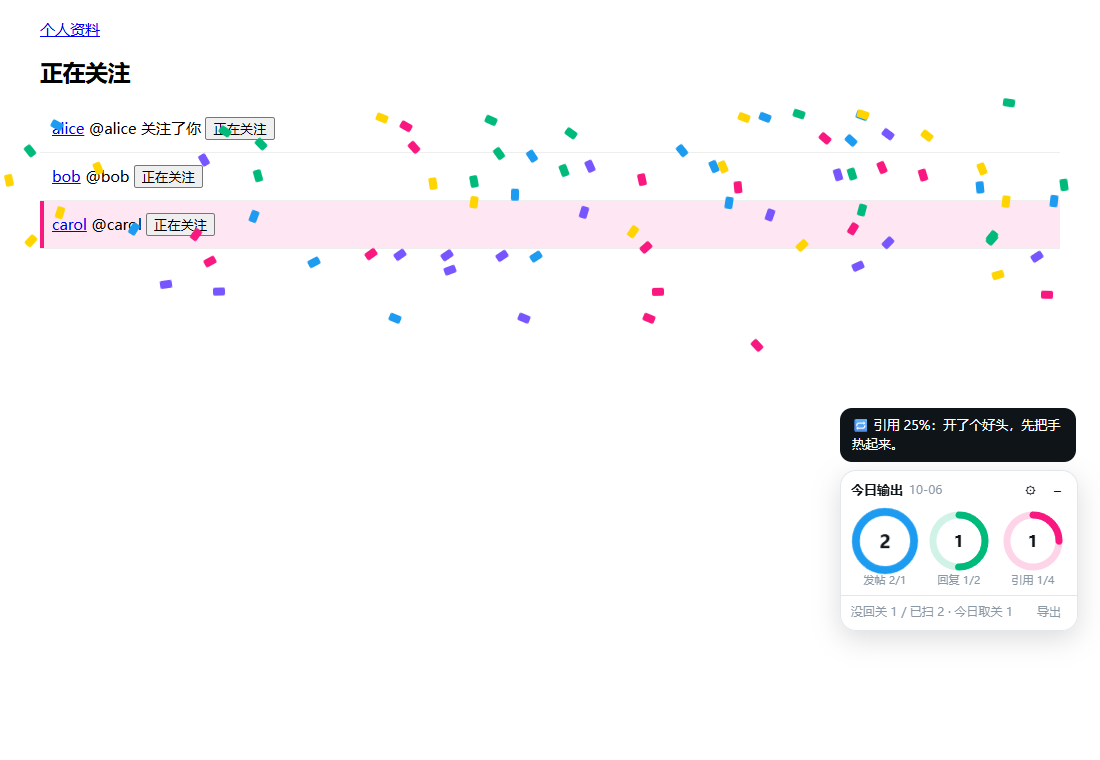
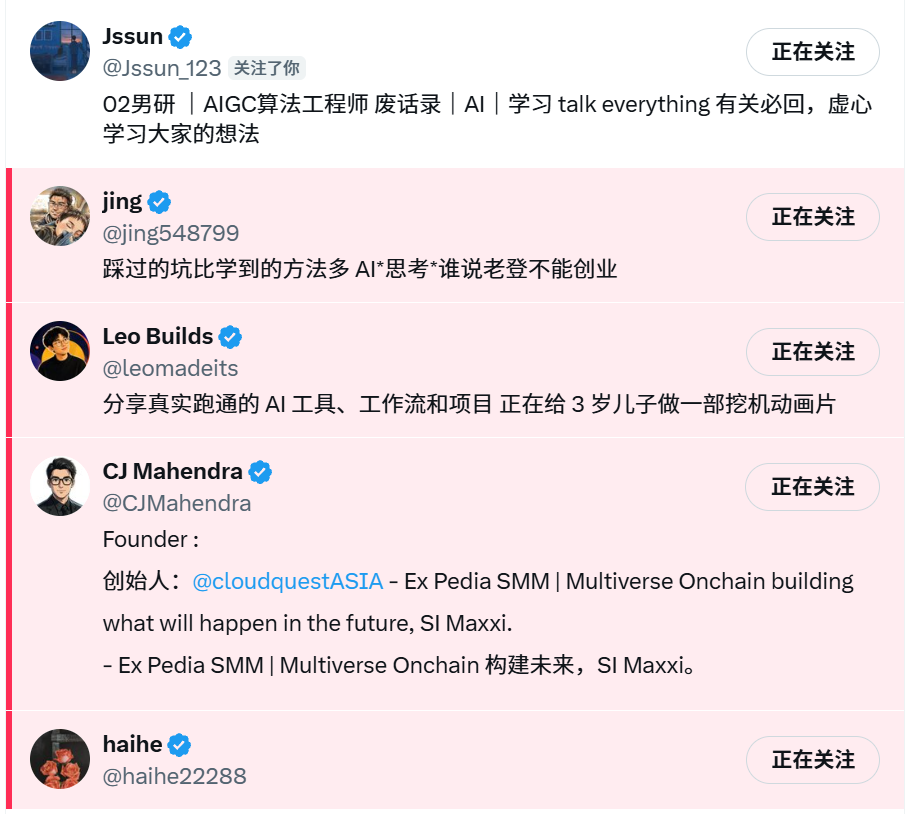
fix: profile-scan notes no longer cover a cheer still on screen; cheers stay 5s

diff --git a/content.js b/content.js
@@ -138,9 +138,11 @@
     host.style.top = Math.max(0, Math.min(y, innerHeight - 40)) + 'px';
   }
 
-  let toastTimer, notifiedUntil = 0;
-  function toast(text, ms = 3000) {
+  let toastTimer, cheerUntil = 0, notifiedUntil = 0;
+  // minor = profile-scan status notes; they never cover a cheer still on screen.
+  function toast(text, ms = 3000, minor = false) {
     const t = $('.toast');
+    if (minor && Date.now() < cheerUntil) return;
     t.textContent = text;
     t.classList.toggle('below', host.getBoundingClientRect().top < t.offsetHeight + 20); // card dragged to the top
     t.classList.add('show');
@@ -193,11 +195,12 @@
     }
     const added = KINDS.filter(k => day[k] > before[k]);
     // Profile visit with nothing new still says so, otherwise it looks like the scan never ran.
-    if (!added.length) return fromProfile && items.length && toast(`✅ 主页核对完：今天 ${items.length} 条都已记录`);
+    if (!added.length) return fromProfile && items.length && toast(`✅ 主页核对完：今天 ${items.length} 条都已记录`, 3000, true);
     await store.set({ days: { ...days, [key]: day }, ownIds: [...fresh, ...ownIds].slice(0, 2000) });
     added.forEach((k, i) => setTimeout(() => plus(k, day[k] - before[k]), 120 + i * 150)); // after the re-render
     if (cheer) {
-      toast(`${ICONS[cheer.kind]} ${LABELS[cheer.kind]} ${cheer.tier}%：${cheer.line}`);
+      toast(`${ICONS[cheer.kind]} ${LABELS[cheer.kind]} ${cheer.tier}%：${cheer.line}`, 5000);
+      cheerUntil = Date.now() + 5000;
       if (cheer.tier === 100) confetti();
     } else if (fromProfile) {
       toast(`📥 从主页补录：${added.map(k => `${LABELS[k]} +${day[k] - before[k]}`).join('，')}`);
@@ -222,7 +225,7 @@
         const items = profileTweets(text, myHandle(), dayKey());
         console.info('[X Daily Rings]', url.split('?')[0].split('/').pop(), { me: myHandle(), tweets: (text.match(/"full_text"/g) ?? []).length, today: items.length });
         const own = location.pathname.toLowerCase().startsWith(`/${myHandle()?.toLowerCase()}`);
-        if (own && !items.length && profileToastPath !== location.pathname) toast('🔍 主页扫描：收到时间线，但没认出今天的内容'); // first page only
+        if (own && !items.length && profileToastPath !== location.pathname) toast('🔍 主页扫描：收到时间线，但没认出今天的内容', 3000, true); // first page only
         profileToastPath = location.pathname;
         return await record(items, true);
       }

diff --git a/CHANGELOG.md b/CHANGELOG.md
@@ -1,5 +1,10 @@
 # Changelog
 
+## Unreleased
+
+- 鼓励语停留 5 秒，主页扫描的「核对完」「没认出今天的内容」提示不再把还在显示的鼓励语顶掉。
+- README 换成真实使用截图，补上安装步骤配图。
+
 ## 0.2.4 — 2026-10-07
 
 - 关注限速：30 分钟后提醒「可以再试试」，但横幅保留，直到下一次关注成功才消失；不再到点自动消失。
